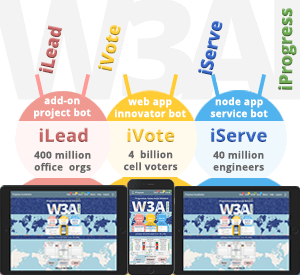
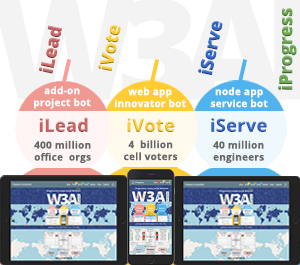
265px social network height + css

diff --git a/src/app/welcome/welcome.component.html b/src/app/welcome/welcome.component.html
@@ -1,6 +1,6 @@
 <section fxLayout="column" fxLayoutAlign="start center" class="web-view">
 
-  <img id="innovators" class="web-show" src="/assets/img/innovators-400.jpg" height="275">
+  <img id="innovators" class="web-show" src="/assets/img/innovators-400.jpg" height="265">
 
   <div class="faster-world">
     <img id="leaders" src="/assets/img/filter.png">
@@ -43,12 +43,14 @@
 
         <li class="ranks middle" fxLayout="column" fxLayoutAlign="center center" fxLayoutGap="5px">
           <h6 class="carousel">
+<!--
             Join <a class="ppt-links"
               href="https://docs.google.com/spreadsheets/d/1VkTX5YG4xA_kVOf2Jzug3isQRcOae4CvkTRJycj_dtY/edit#gid=0">
               Innovation Web</a>
             @ W3AI Meetups: <a class="ppt-links" href="https://www.meetup.com/SocialAI/">Toronto</a>
             &nbsp;<a class="ppt-links" href="https://www.meetup.com/Manhattan-AIR/">NYC</a>
             &nbsp;<a class="ppt-links" href="https://www.meetup.com/HalifaxAIG/">Halifax</a>
+          -->
           </h6>
         </li>
 
@@ -95,20 +97,20 @@
       <div fxLayout="column" fxLayoutAlign="center center">
         <div>manual</div>
         <div><button class="W3AI-button" mat-button (click)="onSetManual(3000)"
-            [ngStyle]="{color: getStatusButtonManual()}"><b>Match</b></button></div>
+            [ngStyle]="{color: getStatusButtonManual()}"><b>></b></button></div>
         <div>control</div>
       </div>
       <div fxLayout="column" fxLayoutAlign="center center">
-          <div>automate</div>
+          <div>autopilot</div>
         <div><button class="W3AI-button" mat-button (click)="onSetSprint(100)"
-            [ngStyle]="{color: getStatusButtonMarathon()}"><b>Progress</b></button></div>
+            [ngStyle]="{color: getStatusButtonMarathon()}"><b>>></b></button></div>
         <div>control & speed</div>
       </div>
       <div fxLayout="column" fxLayoutAlign="center center">
-        <div>evolve</div>
+        <div>innovate</div>
         <div><button class="W3AI-button" mat-button (click)="onSetRun(10)"
-            [ngStyle]="{color: getStatusButtonHackathon()}"><b>Innovate</b></button></div>
-        <div>speed</div>
+            [ngStyle]="{color: getStatusButtonHackathon()}"><b>>>></b></button></div>
+        <div>max speed</div>
       </div>
     </div>
   </section>
@@ -325,7 +327,7 @@
     <section *ngIf="run">
   
       <div id="hello-world">
-        <h1 id="main-title">Fair Progress OS</h1>
+        <h1 id="main-title">Fair Progress Bots</h1>
         <div class="header" fxLayout="row" fxLayoutAlign="center center">
           <div id="left" fxFlex="27%">
             <p>

diff --git a/src/app/welcome/welcome.component.css b/src/app/welcome/welcome.component.css
@@ -1,5 +1,5 @@
 .web-view {
-    height: 275px;
+    height: 265px;
     background-image: url("/assets/img/innovators-400.jpg");
     background-color: rgba(64,84,178);
 }
@@ -25,10 +25,10 @@ div.web-show {
 }
 
 .slow-world {
-    height: 240px;
+    height: 180px;
     width: 100%;
     position: relative;
-    top: -315px;
+    top: -305px;
     z-index: 4;
     background-image: url("/assets/img/World-240.png");
     background-size: contain;
@@ -60,7 +60,7 @@ div.web-show {
 
 .slides {
     position: relative;
-    top: -559px;
+    top: -489px;
     z-index: 20;
 }
 
@@ -74,7 +74,7 @@ div.web-show {
 
 .web-line-north {
     position: relative;
-    top: -555px;
+    top: -485px;
     height: 2px;
     width: 100%;
     background-image: url("/assets/img/web-line-120.png");
@@ -83,7 +83,7 @@ div.web-show {
 
 .web-line-south {
     position: relative;
-    top: -317px;
+    top: -222px;
     height: 2px;
     width: 100%;
     background-image: url("/assets/img/web-line-120.png");
@@ -100,14 +100,14 @@ h6.web-links {
     position: relative;
     top: -636px;
     margin-top: 0px;
-    color: whitesmoke;
+    color: #3f538f;
 }
 
 .carouselbox {
     position: relative;
-    top: -597px;
+    top: -490px;
     height: 40px;
-    color: whitesmoke;
+    color: #3f538f;
 }
 
 .content-carousel{
@@ -129,7 +129,7 @@ h6.carousel {
 .ranks {
     height: 38px;
     width: 360px;
-    color: whitesmoke;
+    color: #3f538f;
     top: 50%;
 }
 
@@ -158,7 +158,7 @@ ol.container-index {
 .rank {
     font: arrial;
     font-size: 12px;
-    color: whitesmoke;
+    color: #3f538f;
 }
 
 .rank-flag {
